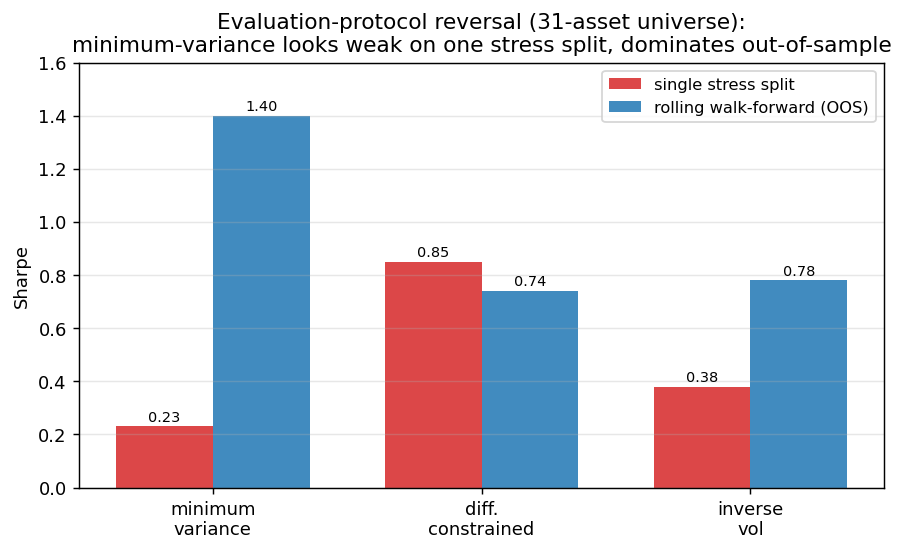
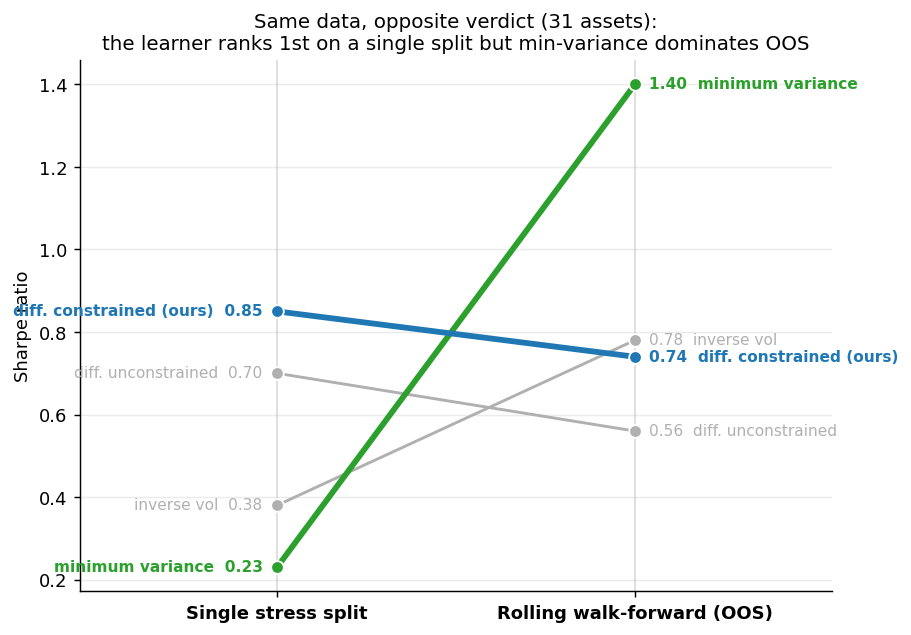
Upgrade evaluation-reversal figure to a rank-reversal slopegraph
The grouped-bar version hid the paper's key finding. Replace it with a slopegraph
(bump chart): each strategy is a line across the two evaluation protocols, so the
ranking inversion is unmistakable — minimum variance climbs from last (0.23) to
first (1.40) out-of-sample while the learner falls from first (0.85) to mid-pack
(0.74), the two lines crossing. Adds plots.plot_rank_reversal +
scripts/make_reversal_figure.py (authoritative tab:protocol numbers -> CSV +
figure) + a smoke test; sharpens the figure caption. Also drop an unused import in
run_sac_sweep.py to keep the tree lint-clean.

69 tests pass, ruff clean.

diff --git a/src/crlpa/evaluation/plots.py b/src/crlpa/evaluation/plots.py
@@ -206,3 +206,52 @@ def plot_forest(df: pd.DataFrame, path, mean=None, ci=None,
     ax.legend(fontsize=8, loc="best", framealpha=0.9)
     ax.grid(alpha=0.3, axis="x")
     return _save(fig, path)
+
+
+def plot_rank_reversal(
+    df: pd.DataFrame,
+    path,
+    left_col: str = "stress",
+    right_col: str = "walkforward",
+    label_col: str = "strategy",
+    left_title: str = "Single stress split",
+    right_title: str = "Rolling walk-forward (OOS)",
+    highlight: dict[str, str] | None = None,
+    title: str = "Same data, opposite verdict: the strategy ranking inverts",
+):
+    """Slopegraph (bump chart) of a metric under two evaluation protocols.
+
+    Each strategy is a line from its left-protocol value to its right-protocol
+    value; crossing lines make a rank reversal unmistakable. ``highlight`` maps a
+    strategy name to a colour (others are drawn muted/grey), used to foreground the
+    protagonists — the learner that falls and the optimiser that rises.
+    """
+    highlight = highlight or {}
+    fig, ax = plt.subplots(figsize=(7.2, 5.0))
+    x0, x1 = 0.0, 1.0
+    for _, r in df.iterrows():
+        name = str(r[label_col])
+        lv, rv = float(r[left_col]), float(r[right_col])
+        color = highlight.get(name, "#b0b0b0")
+        lw = 3.2 if name in highlight else 1.6
+        z = 3 if name in highlight else 1
+        ax.plot([x0, x1], [lv, rv], color=color, lw=lw, zorder=z,
+                marker="o", markersize=7, markeredgecolor="white", markeredgewidth=1.0)
+        ax.annotate(f"{name}  {lv:.2f}", (x0, lv), xytext=(-8, 0),
+                    textcoords="offset points", ha="right", va="center",
+                    fontsize=8.5, color=color, fontweight="bold" if name in highlight else "normal")
+        ax.annotate(f"{rv:.2f}  {name}", (x1, rv), xytext=(8, 0),
+                    textcoords="offset points", ha="left", va="center",
+                    fontsize=8.5, color=color, fontweight="bold" if name in highlight else "normal")
+
+    ax.set_xlim(-0.55, 1.55)
+    ax.set_xticks([x0, x1])
+    ax.set_xticklabels([left_title, right_title], fontsize=10, fontweight="bold")
+    ax.set_ylabel("Sharpe ratio")
+    ax.set_title(title, fontsize=11)
+    for x in (x0, x1):
+        ax.axvline(x, color="#dddddd", lw=1.0, zorder=0)
+    ax.grid(alpha=0.25, axis="y")
+    for spine in ("top", "right"):
+        ax.spines[spine].set_visible(False)
+    return _save(fig, path)

diff --git a/scripts/make_reversal_figure.py b/scripts/make_reversal_figure.py
@@ -1,0 +1,52 @@
+"""Render the evaluation-protocol rank-reversal slopegraph (the paper's key visual).
+
+Shows that on the 31-asset universe the *same* strategies rank oppositely under a
+single stress split vs. a rolling walk-forward: the learned allocator looks best on
+the stress split but minimum variance dominates out-of-sample (the ranking inverts).
+Sharpe values are the recorded results in paper Table~\\ref{tab:protocol} /
+reports/research_log.md (results/tables_wf_large/, regenerable from the pipeline).
+
+Usage:
+    python scripts/make_reversal_figure.py
+"""
+
+from __future__ import annotations
+
+from pathlib import Path
+
+import pandas as pd
+
+from crlpa.evaluation import plots
+
+# Authoritative Sharpe ratios (paper tab:protocol; 31-asset universe, 2008-2024).
+PROTOCOL_SHARPE = pd.DataFrame(
+    [
+        {"strategy": "minimum variance", "stress": 0.23, "walkforward": 1.40},
+        {"strategy": "inverse vol", "stress": 0.38, "walkforward": 0.78},
+        {"strategy": "diff. constrained (ours)", "stress": 0.85, "walkforward": 0.74},
+        {"strategy": "diff. unconstrained", "stress": 0.70, "walkforward": 0.56},
+    ]
+)
+
+HIGHLIGHT = {
+    "minimum variance": "#2ca02c",          # rises to #1 OOS
+    "diff. constrained (ours)": "#1f77b4",   # falls from #1 on the stress split
+}
+
+
+def main() -> None:
+    data_dir = Path("results/tables_protocol")
+    data_dir.mkdir(parents=True, exist_ok=True)
+    PROTOCOL_SHARPE.to_csv(data_dir / "protocol_sharpe.csv", index=False)
+
+    for fig_dir in (Path("reports/figures"), Path("paper/figures")):
+        out = plots.plot_rank_reversal(
+            PROTOCOL_SHARPE, fig_dir / "eval_protocol_reversal.png", highlight=HIGHLIGHT,
+            title=("Same data, opposite verdict (31 assets):\n"
+                   "the learner ranks 1st on a single split but min-variance dominates OOS"),
+        )
+        print("wrote", out)
+
+
+if __name__ == "__main__":
+    main()

diff --git a/paper/main.tex b/paper/main.tex
@@ -694,10 +694,13 @@ diff.\ unconstrained     & 0.70 & 0.56 \\
 \begin{figure}[t]
   \centering
   \includegraphics[width=\linewidth]{eval_protocol_reversal.png}
-  \caption{Evaluation-protocol reversal on the 31-asset universe: minimum variance
-  looks weak on one stress split (Sharpe 0.23) yet dominates out-of-sample (1.40),
-  while the learner barely moves. Apparent learned-allocator advantages over
-  optimisers can be an artifact of the evaluation window.}
+  \caption{\textbf{Evaluation-protocol reversal} on the 31-asset universe
+  (slopegraph of Sharpe; each line is one strategy across two protocols). Under a
+  single stress split the learned allocator ranks \emph{first} (0.85) and minimum
+  variance \emph{last} (0.23); under a rolling walk-forward the ranking
+  \emph{inverts}---minimum variance rises to first (1.40) while the learner falls
+  (0.74). The crossing lines show an apparent learned-allocator advantage that is an
+  artifact of the evaluation window, not a property of the method.}
   \label{fig:reversal}
 \end{figure}
 

diff --git a/tests/test_plots.py b/tests/test_plots.py
@@ -29,3 +29,15 @@ def test_plot_grouped_bars_writes_file(tmp_path):
     p = plots.plot_grouped_bars(df, "scenario", {"unc": "unconstrained", "con": "constrained"},
                                 tmp_path / "bars.png", "CVaR-99", "test")
     assert p.exists() and p.stat().st_size > 0
+
+
+def test_plot_rank_reversal_writes_file(tmp_path):
+    import pandas as pd
+
+    from crlpa.evaluation import plots
+    df = pd.DataFrame([
+        {"strategy": "min variance", "stress": 0.23, "walkforward": 1.40},
+        {"strategy": "ours", "stress": 0.85, "walkforward": 0.74},
+    ])
+    p = plots.plot_rank_reversal(df, tmp_path / "rev.png", highlight={"min variance": "#2ca02c"})
+    assert p.exists() and p.stat().st_size > 0

diff --git a/scripts/run_sac_sweep.py b/scripts/run_sac_sweep.py
@@ -20,7 +20,7 @@ from pathlib import Path
 import numpy as np
 import pandas as pd
 
-from crlpa.evaluation.backtest import rolling_weight_policy, run_policy, static_policy
+from crlpa.evaluation.backtest import rolling_weight_policy, run_policy
 from crlpa.experiment import load_returns, make_env
 from crlpa.policies import baselines as b
 from crlpa.training.sac import SACAllocator, SACConfig, train_sac
